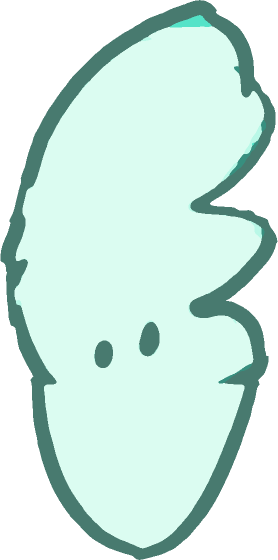
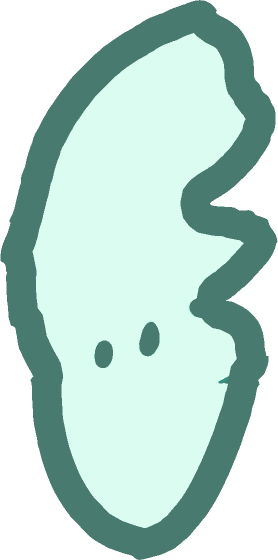
The flying bird's wings now fold and open without popping, its folded wings are outlined all round, and it flies steadily up onto the curl once the frame is in.

Changed region(s): [[0.0288, 0.0304, 0.9496, 1.0]]

diff --git a/blacklist_detect/love_scenes/lyre.py b/blacklist_detect/love_scenes/lyre.py
@@ -19,6 +19,7 @@ running round it; the badge is the lyre, small, on a jade disc.
 
 from __future__ import annotations
 
+import functools
 import json
 import math
 import os
@@ -76,13 +77,17 @@ LEAN = 12.0
 # The lyre's picture is made this many times the screen's sharpness, and made small as it is laid on.
 SHARP = 1.5
 # The birds (see _bird). One sits on the lyre's crossbar right of its pegs (in ref from the lyre's middle), facing
-# right, and bobs on every strum. One flies in from off the right edge on the entrance's gust, from FLY[0] to FLY[1]
-# seconds in, a flap of both wings every FLAP seconds, swoops down past the curl in the top right and turns back up to
-# land on it facing us (its way in design points, a curve whose last point is the curl). One sits among the cecilias in the bottom left facing us, and puffs up on
-# the music's downbeat, the first strum. Sitting, each breathes, sways a little, blinks and flicks a wing now and then.
+# right, and bobs on every strum. One flies in from off the right edge on the entrance's gust once the frame is
+# coming in, from FLY[0] to FLY[1] seconds in, a flap of both wings every FLAP seconds, swoops down past the curl in the
+# top right and climbs back up to land on it facing us (its way in design points, a curve whose last point is the
+# curl, flown at PACE: shares of the flight's time and how fast it goes then, quick in on the gust, a little slower
+# round the turn, steady up to the curl and braking over its last flap). One sits among the cecilias in the bottom
+# left facing us, and puffs up on the music's downbeat, the first strum. Sitting, each breathes, sways a little,
+# blinks and flicks a wing now and then.
 PERCH = (53.0, -129.0)
-FLY, FLAP = (0.25, 1.35), 0.24
-WAY_IN = ((1705, 185), (1440, 218), (1420, 70), (1529, 121))
+FLY, FLAP = (0.4, 1.5), 0.24
+WAY_IN = ((1705, 165), (1370, 205), (1405, 130), (1529, 121))
+PACE = ((0.0, 1.25), (0.45, 0.85), (0.75, 0.95), (1.0, 0.3))
 # The bird among the cecilias sits a little in front of the current, over the stalks' feet.
 NEST = (88, 845)
 # Each bird's small life as it sits (the lyre's, the flyer's, the cecilias'): when it blinks, when its wing flutters,
@@ -340,23 +345,25 @@ def make(stage: Stage):  # noqa: ANN201
                         ang + life * 90, _flip(phase, 2.0, life), hero, px)
         # The bird on the wind, flapping in from the right and landing on the curl.
         if t > FLY[0] and ("bird", "fold") in art:
-            way, flap, squash, hop = _flight(t)
+            way, flap, tuck, squash, hop = _flight(t)
             fx, fy = _bezier_at([xy(*point) for point in WAY_IN], way)
+            seen = ease_out(win(t, FLY[0], FLY[0] + 0.15)) * fade
             if way < 1:
                 # Up on each downstroke, stretched a little as it pulls; banked into the way it flies and rocking a
-                # little stroke to stroke, then flaring back to brake as it comes in to land.
+                # little stroke to stroke, then flaring back to brake over its last flap.
+                k = win(t, *FLY)
                 nx, _ny = _bezier_at([xy(*point) for point in WAY_IN], min(1.0, way + 0.02))
                 toward = max(-1.0, min(1.0, (nx - fx) / (2 * u)))
-                pull = min(flap, STROKE) / STROKE * (1 - smooth(0.85, 1.0, way))
-                size = 0.88 + 0.12 * smooth(0.85, 1.0, way)
-                lean = toward * (13 - 19 * smooth(0.7, 0.92, way)) * (1 - smooth(0.92, 1.0, way))
-                lean += 1.5 * math.sin(math.pi * (t - FLY[0]) / FLAP) * (1 - smooth(0.85, 1.0, way))
-                _flyer(p, art, "flyer", fx, fy - 4 * u * pull, lean, size * (1 - 0.03 * pull), size * (1 + 0.05 * pull), fade, px,
-                       flap, toward)
+                pull = min(flap, STROKE) / STROKE * (1 - smooth(0.85, 1.0, k))
+                size = 0.88 + 0.12 * smooth(0.8, 1.0, k)
+                lean = toward * (13 - 19 * smooth(0.76, 0.92, k)) * (1 - smooth(0.92, 1.0, k))
+                lean += 1.5 * math.sin(math.pi * (t - FLY[0]) / FLAP) * (1 - smooth(0.8, 1.0, k))
+                _flyer(p, art, "flyer", fx, fy - 4 * u * pull, lean, size * (1 - 0.03 * pull), size * (1 + 0.05 * pull), seen, px,
+                       flap, tuck, toward)
             else:
                 idle, sx, sy, sway = _idle(t, 1)
                 _flyer(p, art, idle.replace("bird", "flyer"), fx, fy - hop * u, sway, sx * (1 + 0.08 * squash),
-                       sy * (1 - 0.12 * squash), fade, px, flap)
+                       sy * (1 - 0.12 * squash), seen, px, flap, tuck)
         p.restore()
 
     def warm(scale: float) -> None:
@@ -563,50 +570,60 @@ def _sat(p: QPainter, image: QImage, x: float, y: float, angle: float, sx: float
 
 
 def _flyer(p: QPainter, art: dict, name: str, x: float, y: float, angle: float, sx: float, sy: float, alpha: float,
-           px: float, flap: float, lead: float = 0.0) -> None:
+           px: float, flap: float, tuck: float, lead: float = 0.0) -> None:
     """The flyer (name: "flyer" or "flyer_blink") as _sat lays a bird on, a wing at each shoulder turned down flap
     degrees from raised as the picture holds it (STROKE at the bottom of a flap), behind the bird as the picture's
-    raised wing is by the head, and shorter as it sweeps forward. Past SWAP, the folded wing on each side instead, in
-    front of the bird as the picture's birds that face us hold theirs, opening out less as flap comes to FOLD. lead (-1
-    to 1) is how far it flies to its left or right: that side's wing beats a little less deep."""
+    raised wing is by the head, and shorter as it sweeps down. tuck (0 to 1) folds them from the bottom of a flap: the
+    folded wing on each side takes over in front of the bird, at the same slant and about as long, and closes down
+    flat against its side as the picture's birds that face us hold theirs. lead (-1 to 1) is how far it flies to its
+    left or right: that side's wing beats a little less deep."""
     if alpha <= 0.01:
         return
     body = art["bird", name]
-    folded = flap > SWAP
-    wing = art["bird", "fold" if folded else "wing"]
-    if folded:
-        _sat(p, body, x, y, angle, sx, sy, alpha, px)
     places = _bird_places()
     # The pictures' pixels to the bird's, across and down (BIRD_TALL draws it taller than wide); the folded wing's are
     # TUCK of those.
     kx, ky = body.width() / _bird_file("front").width(), body.height() / _bird_file("front").height()
-    k = TUCK if folded else 1.0
-    (root_x, root_y), (tip_x, tip_y) = places["fold" if folded else "wing"]["root"], places["wing"]["tip"]
+    (root_x, root_y), (tip_x, tip_y) = places["wing"]["root"], places["wing"]["tip"]
+    fold_x, fold_y = places["fold"]["root"]
     along = math.degrees(math.atan2((tip_x - root_x) * kx, (root_y - tip_y) * ky))
-    # A quarter shorter at the bottom of a flap, and shorter still going on down to fold.
-    length = 1 - 0.25 * math.sin(math.pi / 2 * min(1.0, flap / STROKE)) - 0.2 * float(smooth(STROKE, SWAP, flap))
-    opened = (FOLD - flap) / (FOLD - SWAP)
-    for side, mirror in (("right", 1), ("left", -1)):
-        at_x, at_y = places["front"][side]
-        p.save()
-        p.translate(x, y)
-        p.rotate(angle)
-        p.scale(sx / px, sy / px)
-        p.translate(at_x * kx - body.width() / 2, at_y * ky - body.height())
-        p.scale(mirror, 1)
-        if folded:
-            # Opening out from the bird's side, a little bigger as it does, to meet the wing coming down.
-            p.rotate(-OPEN * opened)
-            p.scale(1 + 0.25 * opened, 1 + 0.25 * opened)
-        else:
-            p.rotate(flap * (1 - 0.15 * max(0.0, lead * mirror) * (flap <= STROKE)) + along)
-            p.scale(1, length)
-            p.rotate(-along)
-        # Laid on as a bird is, so its root is where it turns.
-        _sat(p, wing, wing.width() / 2 - root_x * kx * k, wing.height() - root_y * ky * k, 0, 1, 1, alpha, 1)
-        p.restore()
-    if not folded:
-        _sat(p, body, x, y, angle, sx, sy, alpha, px)
+    # Folding, both go on down together from the bottom of the flap to hang at its side; the folded wing comes in over
+    # the raised one before that goes, a frame or two, so neither pops.
+    shut = ease_in_out(tuck)
+    raised, folded = 1 - float(smooth(0.15, 0.3, tuck)), float(smooth(0.0, 0.2, tuck))
+    # A quarter shorter at the bottom of a flap, and shorter still as it folds, to the folded wing's length.
+    length = 1 - 0.25 * math.sin(math.pi / 2 * min(1.0, flap / STROKE)) - 0.35 * float(smooth(0.0, 0.3, tuck))
+    grow = 1 + GROW * (1 - shut)
+
+    def wings(image: QImage, folding: bool, a: float) -> None:
+        for side, mirror in (("right", 1), ("left", -1)):
+            at_x, at_y = places["front"][side]
+            p.save()
+            p.translate(x, y)
+            p.rotate(angle)
+            p.scale(sx / px, sy / px)
+            p.translate(at_x * kx - body.width() / 2, at_y * ky - body.height())
+            p.scale(mirror, 1)
+            down = flap * (1 - 0.15 * max(0.0, lead * mirror))
+            turn = down + (180 - along - down) * shut
+            if folding:
+                # Hanging from the shoulder, opened out to the raised wing's slant and as long, closing as it folds.
+                p.rotate(-(180 - along - turn))
+                p.scale(grow, grow)
+                # Laid on as a bird is, so its root is where it turns.
+                _sat(p, image, image.width() / 2 - fold_x * kx * TUCK, image.height() - fold_y * ky * TUCK, 0, 1, 1, a, 1)
+            else:
+                p.rotate(turn + along)
+                p.scale(1, length)
+                p.rotate(-along)
+                _sat(p, image, image.width() / 2 - root_x * kx, image.height() - root_y * ky, 0, 1, 1, a, 1)
+            p.restore()
+
+    if raised > 0:
+        wings(art["bird", "wing"], False, alpha * raised)
+    _sat(p, body, x, y, angle, sx, sy, alpha, px)
+    if folded > 0:
+        wings(art["bird", "fold"], True, alpha * folded)
 
 
 def _idle(t: float, which: int) -> tuple[str, float, float, float]:
@@ -632,37 +649,55 @@ def _bob(t: float) -> float:
     return out
 
 
-def _flight(t: float) -> tuple[float, float, float, float]:
-    """The flying bird t seconds in: how far along its way in (0..1, slowing to land), its wings (see _flyer), its squash
-    as it lands, and (in points) how high it hops as it flaps once on the second strum."""
+def _flight(t: float) -> tuple[float, float, float, float, float]:
+    """The flying bird t seconds in: how far along its way in (0..1 along the curve, at PACE), its wings (flap and tuck,
+    see _flyer), its squash as it lands, and (in points) how high it hops as it flaps once on the second strum."""
     k = win(t, *FLY)
     if k < 1:
         # Each flap a quick stroke down, snapping at the bottom, and a slower one up, easing into the picture's raised
         # pose; counted back from the last, whose stroke down goes on to fold the wings as it lands.
         last = FLY[1] - FLAP
-        if t < last:
-            beat = (t - last) / FLAP % 1
-            flap = STROKE * ((beat / 0.35) ** 2 if beat < 0.35 else (1 - (beat - 0.35) / 0.65) ** 2)
-        else:
-            flap = FOLD * ease_out((t - last) / FLAP)
-        return 1 - (1 - k) ** 2, flap, 0.0, 0.0
+        beat = (t - last) / FLAP % 1 if t < last else (t - last) / FLAP
+        flap = STROKE * ((beat / 0.35) ** 2 if beat < 0.35 else (1 - (beat - 0.35) / 0.65) ** 2)
+        tuck = 0.0
+        if t >= last and beat >= 0.35:
+            flap, tuck = STROKE, (beat - 0.35) / 0.65
+        return _way(k), flap, tuck, 0.0, 0.0
     x = t - FLY[1]
     squash = math.sin(x * 2 * math.pi / 0.4) * math.exp(-x / 0.16)
     # Settling, the folded wings lift from its sides a moment.
-    flap = FOLD - 10 * max(0.0, squash)
+    tuck = 1 - 0.12 * max(0.0, squash)
     x = t - STRUMS[1][0]
-    if 0 <= x < 0.36:
-        # Open from its sides, up, one stroke down and folded again.
-        if x < 0.05:
-            flap = FOLD - (FOLD - SWAP) * ease_in_out(x / 0.05)
-        elif x < 0.14:
-            flap = SWAP * (1 - ease_out((x - 0.05) / 0.09))
-        elif x < 0.2:
-            flap = STROKE * ((x - 0.14) / 0.06) ** 2
+    if 0 <= x < 0.38:
+        # The folded wings open out to its sides, rise, beat once and fold again.
+        flap, tuck = STROKE, 0.0
+        if x < 0.08:
+            tuck = 1 - x / 0.08
+        elif x < 0.17:
+            flap = STROKE * (1 - ease_out((x - 0.08) / 0.09))
+        elif x < 0.23:
+            flap = STROKE * ((x - 0.17) / 0.06) ** 2
         else:
-            flap = STROKE + (FOLD - STROKE) * ease_out((x - 0.2) / 0.16)
-        return 1.0, flap, squash, 4 * math.sin(math.pi * min(1.0, x / 0.32))
-    return 1.0, flap, squash, 0.0
+            tuck = (x - 0.23) / 0.15
+        return 1.0, flap, tuck, squash, 4 * math.sin(math.pi * min(1.0, x / 0.32))
+    return 1.0, STROKE, tuck, squash, 0.0
+
+
+def _way(k: float) -> float:
+    """Where the flyer is along WAY_IN (the curve's own 0..1) k of the way through its flight, flying at PACE."""
+    return float(np.interp(k, *_way_table()))
+
+
+@functools.lru_cache(maxsize=1)
+def _way_table() -> tuple[np.ndarray, np.ndarray]:
+    """Shares of the flight's time, and where along WAY_IN the flyer is at each (WAY_IN is in design points, which
+    the stage only scales and moves, so its lengths hold)."""
+    steps = np.linspace(0, 1, 201)
+    curve = np.array([_bezier_at(WAY_IN, j) for j in steps])
+    run = np.r_[0, np.cumsum(np.hypot(*np.diff(curve, axis=0).T))]
+    pace = np.interp(steps, *zip(*PACE, strict=True))
+    gone = np.r_[0, np.cumsum((pace[1:] + pace[:-1]) / 2 * np.diff(steps))]
+    return steps, np.interp(gone / gone[-1] * run[-1], run, steps)
 
 
 def _bezier_at(points: list, k: float) -> tuple[float, float]:
@@ -1809,11 +1844,10 @@ BIRDS_DIR = Path(__file__).resolve().parent.parent / "assets" / "birds"
 BIRD_WIDE = {"perch": 57.0, "flyer": 47.0, "lily": 70.0}
 # How much taller than the picture each bird is drawn, for the user's taste: a little less squat.
 BIRD_TALL = 1.12
-# The flyer's wings turned down from raised, in degrees: at the bottom of a flap, where the folded wing takes over
-# (opening out OPEN degrees from the bird's side) going on down, and folded. The folded wing is the cecilias' bird's,
-# the picture's biggest: made TUCK of the flyer's size.
-STROKE, SWAP, FOLD, OPEN = 80.0, 125.0, 150.0, 30.0
-TUCK = 0.42
+# The flyer's wings turned down from raised at the bottom of a flap, in degrees. The folded wing is the cecilias'
+# bird's, the picture's biggest: made TUCK of the flyer's size, and GROW bigger again opened out to meet the raised wing.
+STROKE = 80.0
+TUCK, GROW = 0.42, 0.4
 _BIRD_FILES: dict[str, QImage] = {}
 _BIRD_LOCK = threading.Lock()
 

diff --git a/build/lyre_birds.py b/build/lyre_birds.py
@@ -174,6 +174,9 @@ BIRDS = {
             ("line", [(428, 1490), (446, 1490), (456, 1500), (459, 1518)]),
         ],
         "eyes": [],
+        # The flyer wears it at 0.42 of its size: its line all round, the inner edge too where it lies over the white
+        # body, thick enough to be the flyer's line there.
+        "rim": 15,
         # Where it hangs from the bird's shoulder, and opens out about: under its top, its outer third past the side.
         "points": {"root": (402, 1415)},
     },
@@ -327,6 +330,10 @@ def cut(picture: Image.Image, spec: dict) -> tuple[dict[str, Image.Image], tuple
     _draw(labels, spec["repair"], (x0, y0))
     labels = _even(labels)
     mask = _bird_mask(labels, spec, (x0, y0))
+    if "rim" in spec:
+        # The line round it all, as thick as asked, inward from its edge.
+        inward = cv2.distanceTransform(mask.astype(np.uint8), cv2.DIST_L2, 5)
+        labels[(inward > 0) & (inward < spec["rim"] * SCALE)] = LINE
     pictures = {"": render(labels, mask)}
     if spec["eyes"]:
         pictures["_blink"] = render(_shut(labels, spec["eyes"], (x0, y0)), mask)
